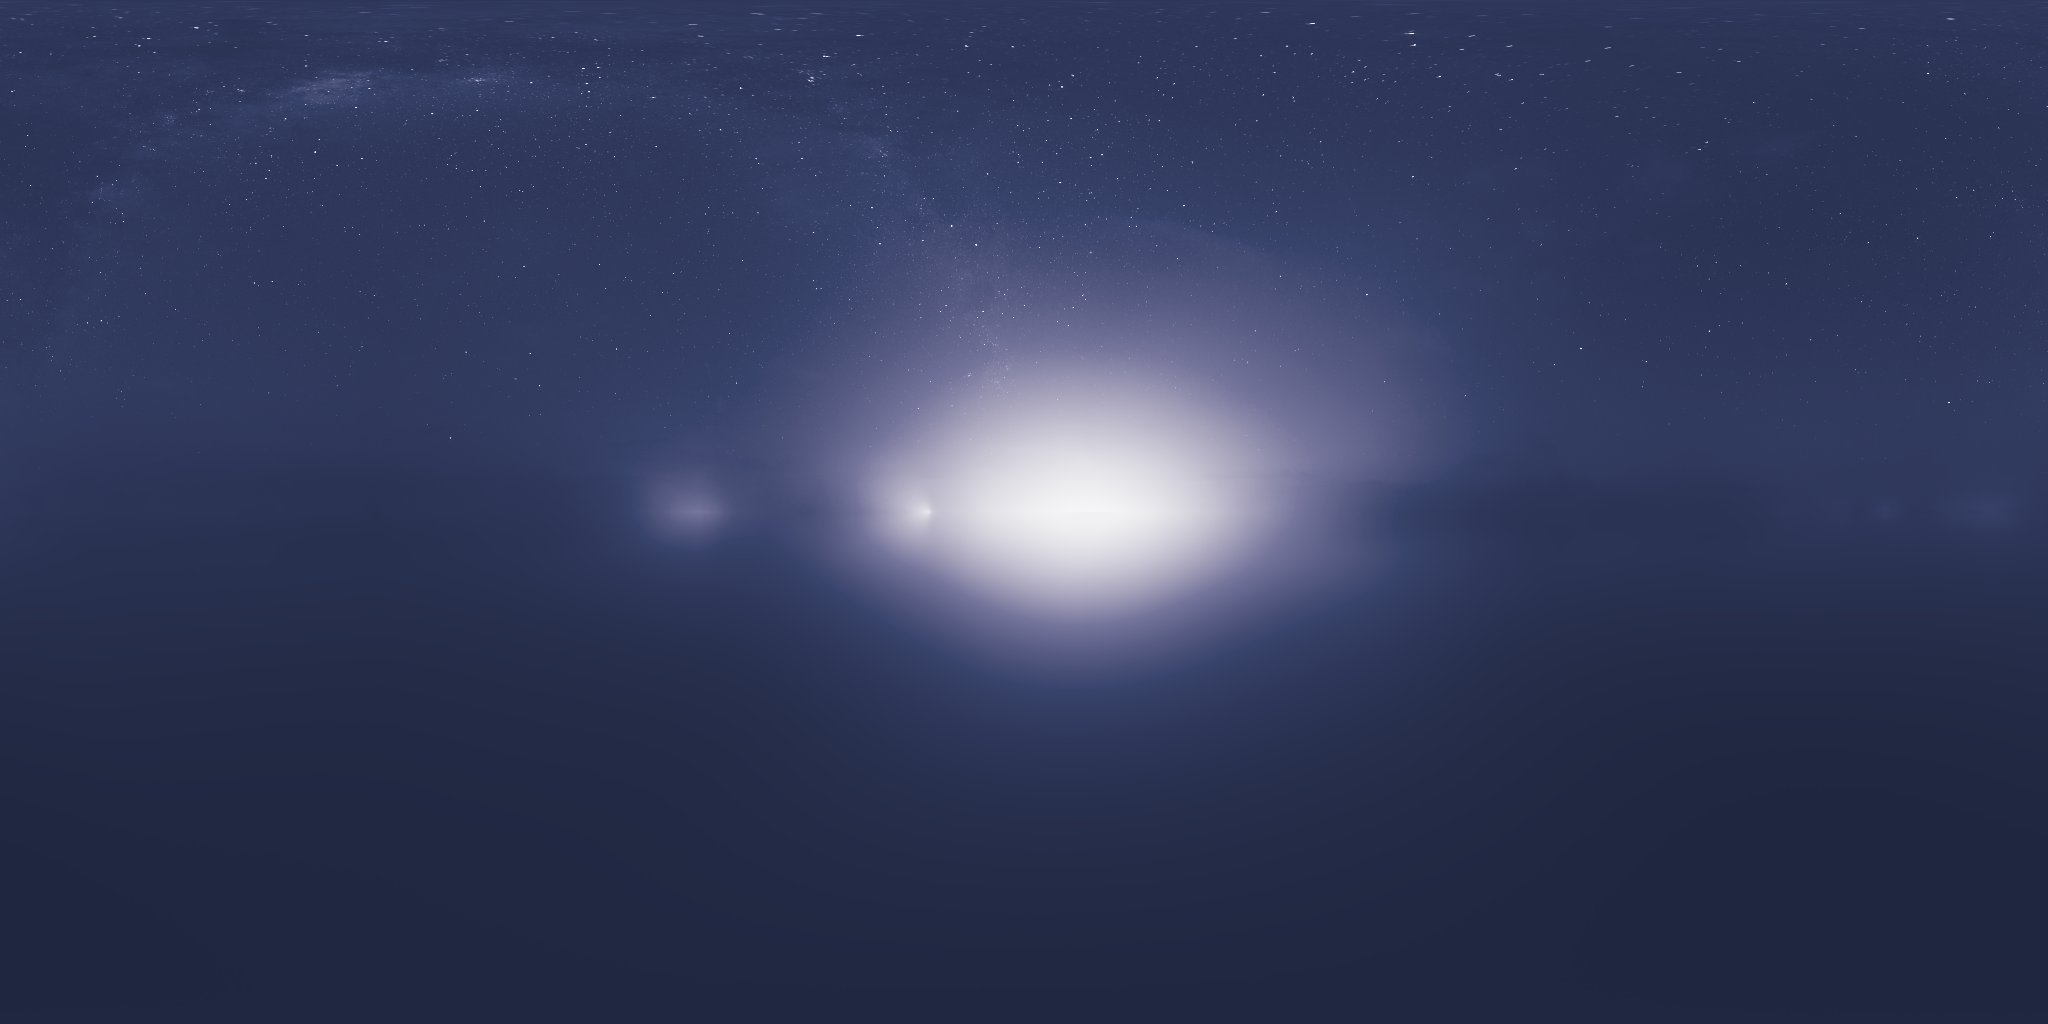
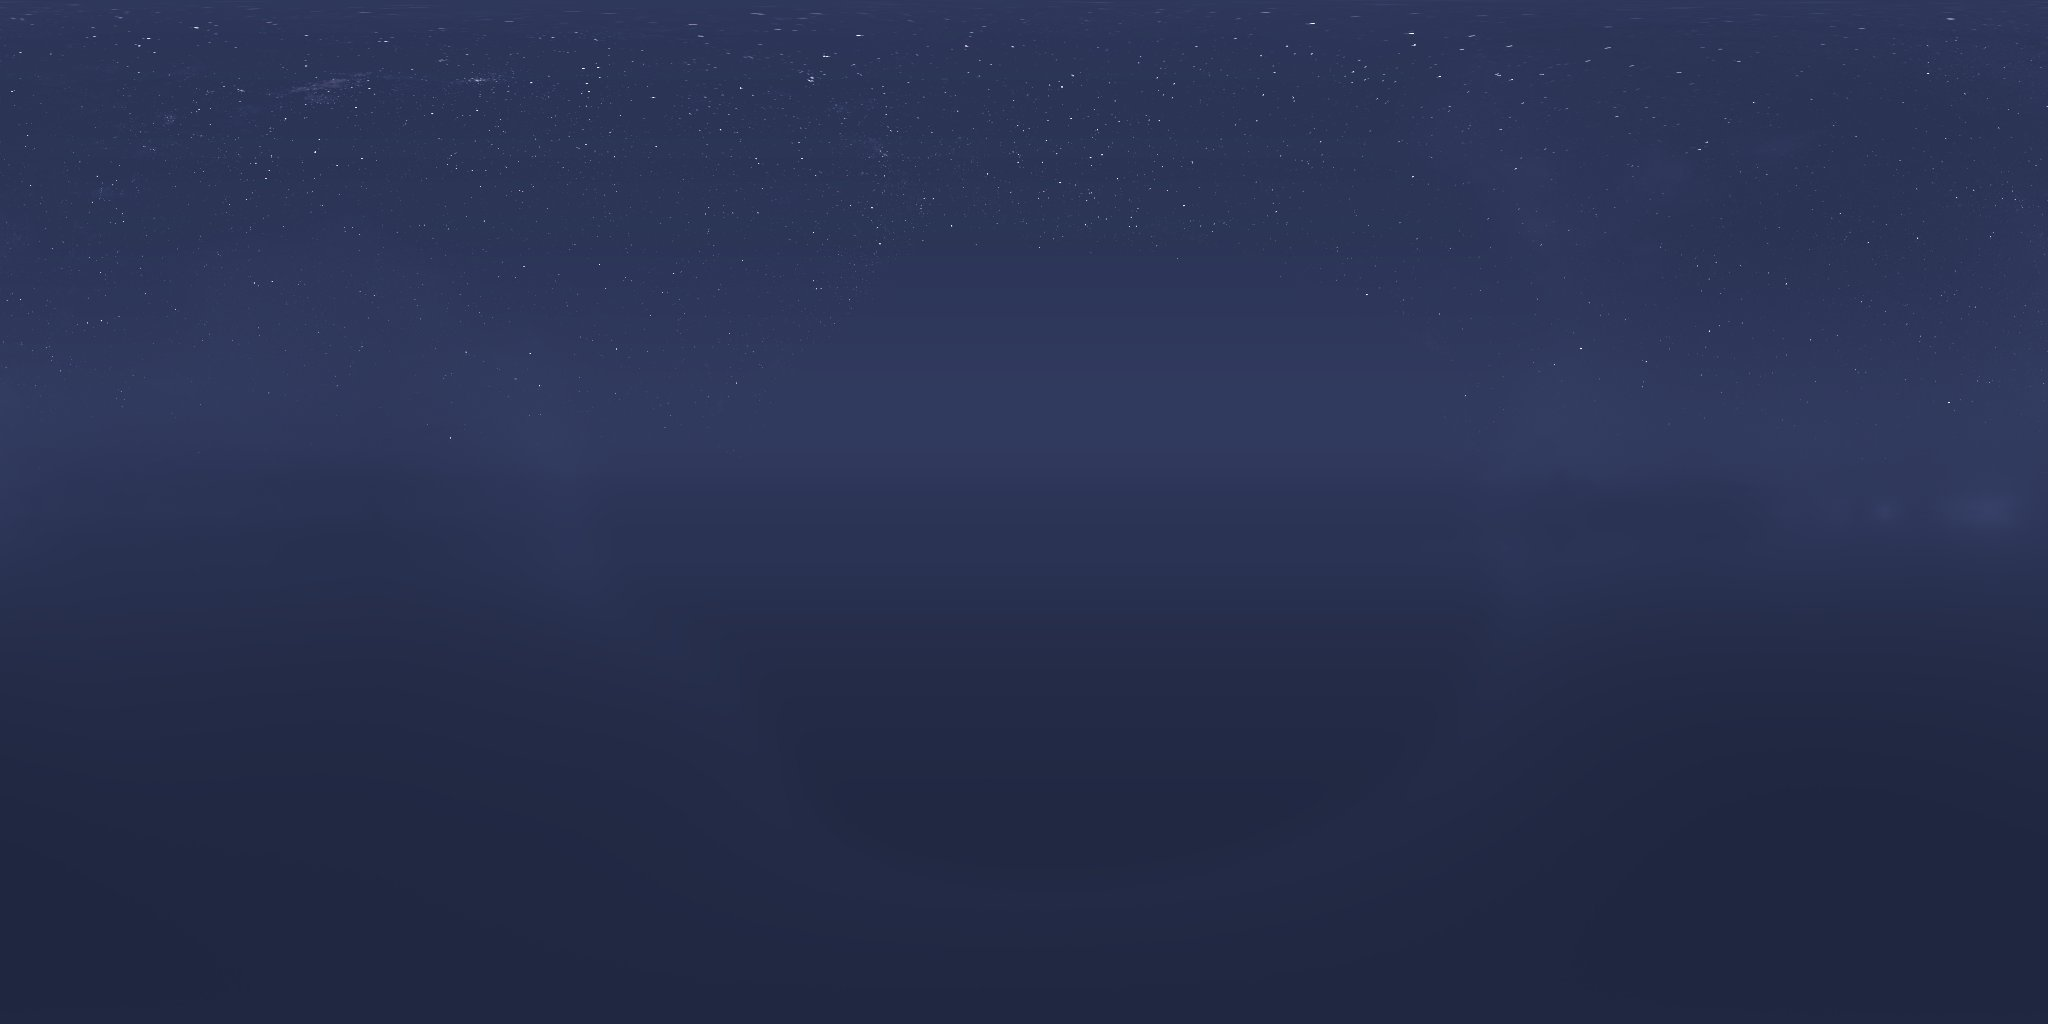
M8.5 #7: one moon. The photo's moon and its glow painted out of the Night and Midnight skies (prep_sky.py); stars and the Milky Way kept, the light on the land measured from the unpainted sky so it is unchanged

Changed region(s): [[0.3125, 0.1875, 0.7188, 0.7188]]

diff --git a/tools/world/prep_sky.py b/tools/world/prep_sky.py
@@ -55,6 +55,39 @@ def orientation(S):
     return rodrigues(np.array([0, 0, 1.0]), math.radians(rotz)) @ Rt
 
 
+# M8.5 #7 (owner: "why do we have 2 moons"): Night's and Midnight's photos carry their own moon and its glow; the
+# browser draws the moon (a crescent with its halo), so those two are painted out of the photo.
+MOON_OUT = {"night", "midnight"}
+
+
+def paint_out_moon(sky):
+    """Replace the photo's moon and the glow joined to it by the sky's own colour at each height (feathered)."""
+    lum = sky @ LUM
+    bg = cv2.GaussianBlur(np.percentile(lum, 35, axis=1).astype(np.float32)[:, None], (1, 0), 12)[:, 0]
+    over = (lum > 1.25 * bg[:, None]).astype(np.uint8)
+    over = cv2.dilate(over, np.ones((9, 9), np.uint8))
+    _, labels = cv2.connectedComponents(over)
+    # the moon is the centre of the brightest glow; the brightest single pixel can be a star (Midnight's is)
+    y, x = np.unravel_index(np.argmax(cv2.GaussianBlur(lum, (0, 0), 15)), lum.shape)
+    blob = labels == labels[y, x]
+    keep = ~cv2.dilate(blob.astype(np.uint8), np.ones((41, 41), np.uint8)).astype(bool)
+    rows = np.where(keep.any(1))[0]
+    colour = np.zeros((H, 3), np.float32)
+    for r in rows:
+        colour[r] = np.median(sky[r][keep[r]], 0)
+    for k in range(3):  # rows wholly inside the blob take their neighbours' colour
+        colour[:, k] = np.interp(np.arange(H), rows, colour[rows, k])
+    colour = cv2.GaussianBlur(colour[:, None, :], (1, 0), 6)[:, 0, :]
+    m = cv2.GaussianBlur(cv2.dilate(blob.astype(np.float32), np.ones((25, 25), np.uint8)), (0, 0), 18)[..., None]
+    # the stars and the Milky Way's grain under the glow are kept: only the smooth glow goes. The moon's disc and
+    # its bright core (over twice the sky around, joined to the brightest pixel) keep no detail, or the disc's edge would stay as a ring.
+    detail = np.maximum(sky - cv2.GaussianBlur(sky, (0, 0), 12), 0)  # light only: no dark rings round bright stars
+    _, bright = cv2.connectedComponents((lum > 2 * bg[:, None]).astype(np.uint8))
+    disc = (bright == bright[y, x]).astype(np.float32)  # the moon's own disc, not the stars
+    core = cv2.GaussianBlur(cv2.dilate(disc, np.ones((21, 21), np.uint8)), (0, 0), 10)[..., None]
+    return sky * (1 - m) + np.maximum(colour[:, None, :] + detail * (1 - core), 0) * m, int(blob.sum())
+
+
 def make(hour):
     S = SHOTS[hour]
     img, used = photo(S["hdri"])
@@ -82,14 +115,18 @@ def make(hour):
         lo, hi, z0, z1 = S["sky_grad"]
         t = np.clip((d[..., 2] - z0) / (z1 - z0), 0, 1)[..., None]
         sky = sky * (np.array(lo) * (1 - t) + np.array(hi) * t)
+    lit = sky  # the light the sky gives the land is measured before any paint-out, so the land is lit as before
+    if hour in MOON_OUT:
+        sky, n = paint_out_moon(sky)
+        print(f"{hour:11s} moon and glow painted out ({n} px)")
     enc = np.power(sky / (1 + sky), 1 / 2.2)
     path = os.path.join(OUT, hour + ".jpg")
     cv2.imwrite(path, (np.clip(enc, 0, 1)[..., ::-1] * 255 + 0.5).astype(np.uint8), [cv2.IMWRITE_JPEG_QUALITY, 85])
     gain = S["hdri_gain"]
     wgt = np.cos(e)[..., None]
-    up = (sky * wgt)[e > 0].sum(0) / wgt[e > 0].sum()
+    up = (lit * wgt)[e > 0].sum(0) / wgt[e > 0].sum()
     band = (e > 0) & (e < math.radians(10))
-    horizon = (sky * wgt)[band].sum(0) / wgt[band].sum()
+    horizon = (lit * wgt)[band].sum(0) / wgt[band].sum()
     size = os.path.getsize(path)
     assert size <= 0.2e6, (hour, size)
     print(f"{hour:11s} {used:40s} {size / 1e3:6.1f} kB  mean {sky.mean():.3f}")
